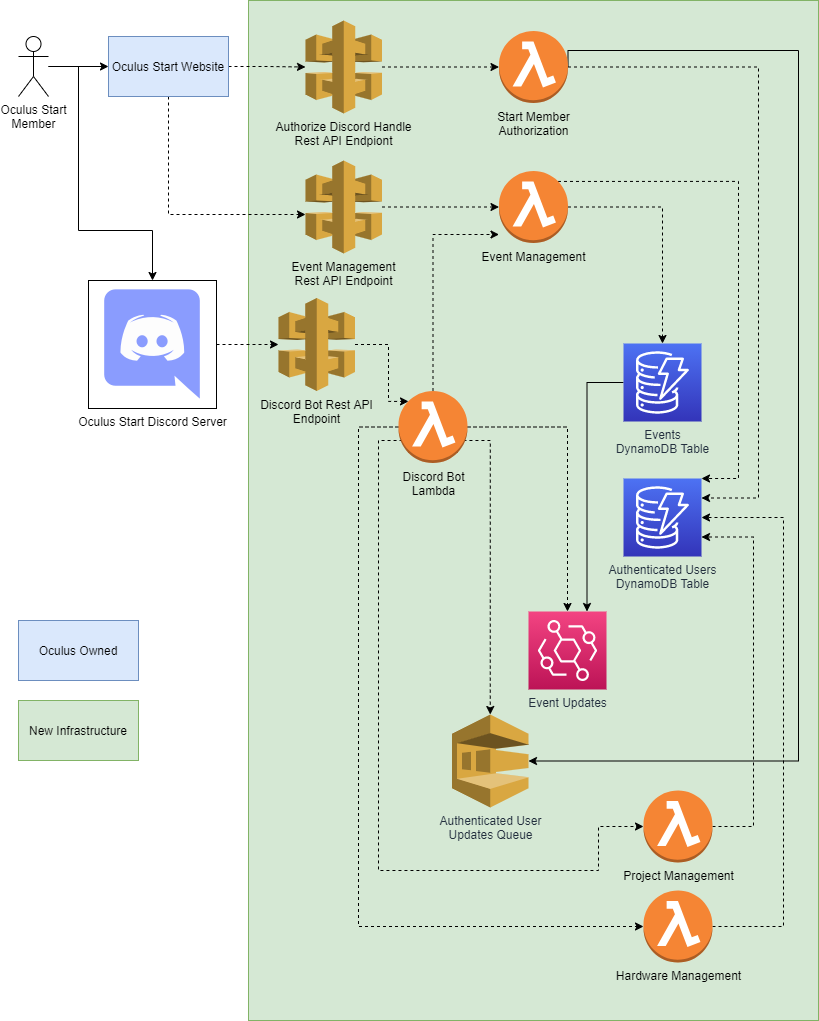
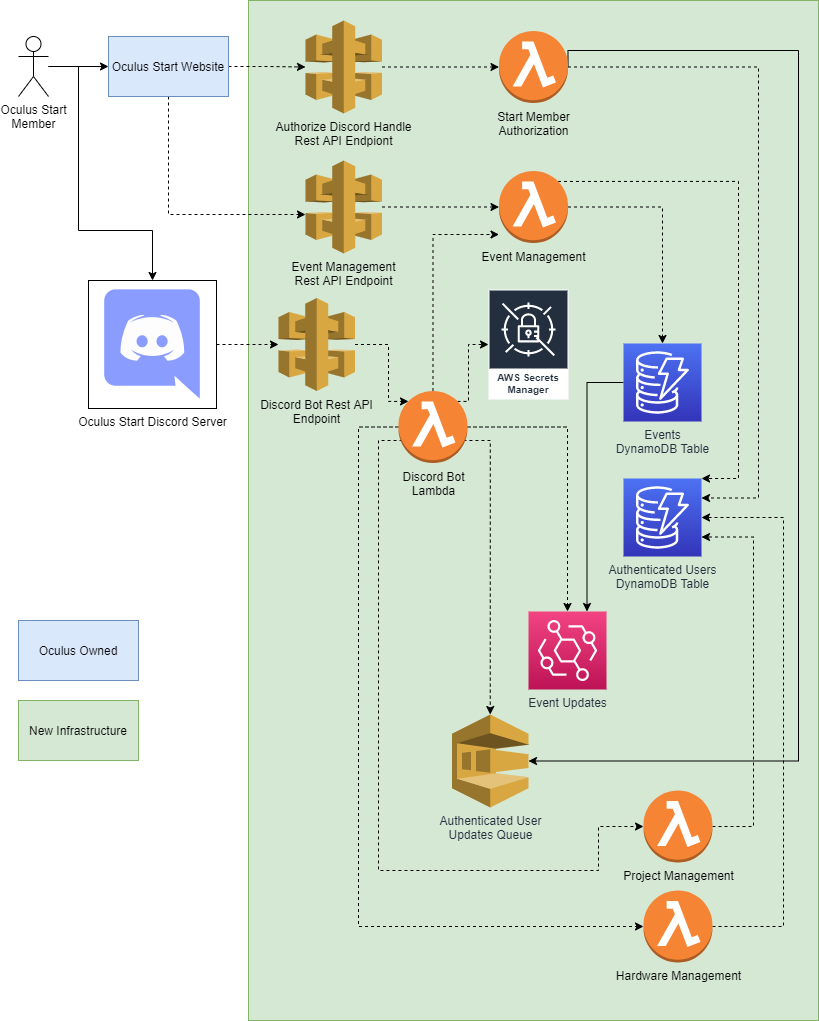
Setup Slash Command Files
[Problem]
We need to have support for setting up Slash Commands.

[Solution]
Added the basics of setting up the Slash Commands.

[Testing]
Manual testing for now, unit testing to come later.

Changed region(s): [[0.58, 0.2733, 0.7021, 0.3947]]

diff --git a/test/functions/DiscordBot.test.ts b/test/functions/DiscordBot.test.ts
@@ -1,7 +1,11 @@
 import { Context, Callback } from 'aws-lambda';
 
 const mockGetSecretValue = jest.fn().mockReturnValue({
-    SecretString: 'secretKey'
+    SecretString: JSON.stringify({
+                appId: 'appId',
+                publicKey: 'publicKey',
+                clientId: 'clientId'
+            })
 });
 
 const mockGetSecretValuePromise = {
@@ -40,7 +44,11 @@ describe('Test DiscordBot', () => {
 
     test('Test Verify - Success', async () => {
         mockGetSecretValue.mockReturnValueOnce({
-            SecretString: 'secretKey'
+            SecretString: JSON.stringify({
+                appId: 'appId',
+                publicKey: 'publicKey',
+                clientId: 'clientId'
+            })
         });
         mockVerify.mockReturnValueOnce(true);
         const result = await DiscordBot.verifyEvent({
@@ -56,7 +64,11 @@ describe('Test DiscordBot', () => {
 
     test('Test Verify - Fail', async () => {
         mockGetSecretValue.mockReturnValueOnce({
-            SecretString: 'secretKey'
+            SecretString: JSON.stringify({
+                appId: 'appId',
+                publicKey: 'publicKey',
+                clientId: 'clientId'
+            })
         });
         mockVerify.mockReturnValueOnce(false);
         const result = await DiscordBot.verifyEvent({
@@ -87,7 +99,11 @@ describe('Test DiscordBot', () => {
 
     test('Test Verify - nacl Exception', async () => {
         mockGetSecretValue.mockReturnValueOnce({
-            SecretString: 'secretKey'
+            SecretString: JSON.stringify({
+                appId: 'appId',
+                publicKey: 'publicKey',
+                clientId: 'clientId'
+            })
         });
         mockVerify.mockImplementationOnce(() => {
             throw new Error('Handle errors');
@@ -106,7 +122,11 @@ describe('Test DiscordBot', () => {
 
     test('Test Handler - Success', async () => {
         mockGetSecretValue.mockReturnValueOnce({
-            SecretString: 'secretKey'
+            SecretString: JSON.stringify({
+                appId: 'appId',
+                publicKey: 'publicKey',
+                clientId: 'clientId'
+            })
         });
         mockVerify.mockReturnValueOnce(true);
         const result = await DiscordBot.handler({
@@ -128,7 +148,11 @@ describe('Test DiscordBot', () => {
 
     test('Test Handler (No Event Type) - Success', async () => {
         mockGetSecretValue.mockReturnValueOnce({
-            SecretString: 'secretKey'
+            SecretString: JSON.stringify({
+                appId: 'appId',
+                publicKey: 'publicKey',
+                clientId: 'clientId'
+            })
         });
         mockVerify.mockReturnValueOnce(true);
         const result = await DiscordBot.handler(({
@@ -150,7 +174,11 @@ describe('Test DiscordBot', () => {
 
     test('Test Handler - Ping', async () => {
         mockGetSecretValue.mockReturnValueOnce({
-            SecretString: 'secretKey'
+            SecretString: JSON.stringify({
+                appId: 'appId',
+                publicKey: 'publicKey',
+                clientId: 'clientId'
+            })
         });
         mockVerify.mockReturnValueOnce(true);
         const result = await DiscordBot.handler({
@@ -168,7 +196,11 @@ describe('Test DiscordBot', () => {
 
     test('Test Handler - Error', async () => {
         mockGetSecretValue.mockReturnValueOnce({
-            SecretString: 'secretKey'
+            SecretString: JSON.stringify({
+                appId: 'appId',
+                publicKey: 'publicKey',
+                clientId: 'clientId'
+            })
         });
         mockVerify.mockReturnValueOnce(false);
         expect(async() => {

diff --git a/src/stacks/discord-bot-stack.ts b/src/stacks/discord-bot-stack.ts
@@ -1,25 +1,30 @@
 import {Runtime} from '@aws-cdk/aws-lambda';
 import {LambdaIntegration, RequestValidator, RestApi} from '@aws-cdk/aws-apigateway';
 import {NodejsFunction} from '@aws-cdk/aws-lambda-nodejs';
-import * as cdk from '@aws-cdk/core';
-import * as path from 'path';
+import {CfnOutput, Construct, Stack, StackProps} from '@aws-cdk/core';
 import {Secret} from '@aws-cdk/aws-secretsmanager';
+import * as path from 'path';
 
 /**
  * A stack for creating the Discord bot itself. Creates an API Gateway endpoint
  * that Discord can reach for events.
  */
-export class DiscordBotStack extends cdk.Stack {
+export class DiscordBotStack extends Stack {
+  public readonly discordAPISecrets: Secret;
+
   /**
    * The constructor for building the stack.
-   * @param {cdk.Construct} scope The Construct scope to create the stack in.
+   * @param {Construct} scope The Construct scope to create the stack in.
    * @param {string} id The ID of the stack to use.
-   * @param {cdk.StackProps} props The properties to configure the stack.
+   * @param {StackProps} props The properties to configure the stack.
    */
-  constructor(scope: cdk.Construct, id: string, props?: cdk.StackProps) {
+  constructor(scope: Construct, id: string, props?: StackProps) {
     super(scope, id, props);
 
-    const discordKeySecret = new Secret(this, 'oculus-start-discord-api-key');
+    this.discordAPISecrets = new Secret(this, 'oculus-start-discord-api-key', {
+      secretName: `oculusStartDiscordSecrets${scope.node.addr}`,
+    });
+    new CfnOutput(this, 'discordSecretsName', {value: this.discordAPISecrets.secretName});
 
     // Create the Lambdas next.
     const discordBotLambda = new NodejsFunction(this, 'discord-bot-lambda', {
@@ -27,11 +32,11 @@ export class DiscordBotStack extends cdk.Stack {
       entry: path.join(__dirname, '../functions/DiscordBot.ts'),
       handler: 'handler',
       environment: {
-        DISCORD_BOT_API_KEY_NAME: discordKeySecret.secretName,
+        DISCORD_BOT_API_KEY_NAME: this.discordAPISecrets.secretName,
       },
     });
 
-    discordKeySecret.grantRead(discordBotLambda);
+    this.discordAPISecrets.grantRead(discordBotLambda);
 
     // Create our API Gateway
     const discordBotAPI = new RestApi(this, 'discord-bot-api', {

diff --git a/src/stacks/start-api-stack.ts b/src/stacks/start-api-stack.ts
@@ -2,23 +2,23 @@ import {AttributeType, Table} from '@aws-cdk/aws-dynamodb';
 import {Runtime} from '@aws-cdk/aws-lambda';
 import {LambdaIntegration, RequestValidator, RestApi} from '@aws-cdk/aws-apigateway';
 import {NodejsFunction} from '@aws-cdk/aws-lambda-nodejs';
-import * as cdk from '@aws-cdk/core';
-import * as path from 'path';
+import {Construct, Stack, StackProps} from '@aws-cdk/core';
 import {Queue} from '@aws-cdk/aws-sqs';
+import * as path from 'path';
 
 /**
  * Creates the APIs and code behind them for managing various
  * things in the backend of the Oculus Start bot (user authorization, event
  * management, etc.)
  */
-export class StartAPIStack extends cdk.Stack {
+export class StartAPIStack extends Stack {
   /**
    * The constructor for building the stack.
-   * @param {cdk.Construct} scope The Construct scope to create the stack in.
+   * @param {Construct} scope The Construct scope to create the stack in.
    * @param {string} id The ID of the stack to use.
-   * @param {cdk.StackProps} props The properties to configure the stack.
+   * @param {StackProps} props The properties to configure the stack.
    */
-  constructor(scope: cdk.Construct, id: string, props?: cdk.StackProps) {
+  constructor(scope: Construct, id: string, props?: StackProps) {
     super(scope, id, props);
 
     // Create our DynamoDB tables first.

diff --git a/src/configure-discord-server.ts b/src/configure-discord-server.ts
@@ -1,0 +1,30 @@
+import { AWSError, SecretsManager } from "aws-sdk";
+import { GetSecretValueResponse } from "aws-sdk/clients/secretsmanager";
+import DiscordInteractions from "slash-commands";
+import { DiscordSecrets } from "./types";
+import * as Stacks from './configs/outputs.json';
+
+const secretsManager = new SecretsManager({
+  region: 'us-west-2'
+});
+
+secretsManager.getSecretValue({
+  SecretId: Stacks.DiscordBotStack.discordSecretsName
+}, (err?: AWSError, data?: GetSecretValueResponse) => {
+  if (data?.SecretString) {
+    try {
+      const discordSecrets: DiscordSecrets = JSON.parse(data.SecretString);
+      new DiscordInteractions({
+        applicationId: discordSecrets.appId,
+        authToken: discordSecrets.clientId,
+        publicKey: discordSecrets.publicKey,
+      });
+
+      console.log('Ready to create interactions!');
+      // TODO: Handle here
+    } catch(exception) {
+      console.log(`There was an error parsing the secret JSON: ${exception}`);
+      console.log('Please make sure that you have setup your secrets in the AWS console!');
+    }
+  }
+});

diff --git a/src/functions/DiscordBot.ts b/src/functions/DiscordBot.ts
@@ -2,6 +2,7 @@ import {Context, Callback} from 'aws-lambda';
 import {SecretsManager} from 'aws-sdk';
 import {discordBotAPIKeyName} from './constants/EnvironmentProps';
 import * as nacl from 'tweetnacl';
+import {DiscordSecrets} from '../types';
 
 export interface DiscordEventRequest {
     timestamp: string;
@@ -69,10 +70,11 @@ export async function verifyEvent(event: DiscordEventRequest): Promise<boolean> 
 
   try {
     if (discordAPIKey.SecretString) {
+      const discordSecrets: DiscordSecrets = JSON.parse(discordAPIKey.SecretString);
       const isVerified = nacl.sign.detached.verify(
           Buffer.from(event.timestamp + JSON.stringify(event.jsonBody)),
           Buffer.from(event.signature, 'hex'),
-          Buffer.from(discordAPIKey.SecretString, 'hex'),
+          Buffer.from(discordSecrets.publicKey, 'hex'),
       );
       return isVerified;
     }

diff --git a/src/app.ts b/src/app.ts
@@ -3,7 +3,10 @@ import 'source-map-support/register';
 import * as cdk from '@aws-cdk/core';
 import { DiscordBotStack } from './stacks/discord-bot-stack';
 import { StartAPIStack } from './stacks/start-api-stack';
+import { writeFile } from 'fs';
+import { Token, Tokenization } from '@aws-cdk/core';
 
 const app = new cdk.App();
 new StartAPIStack(app, 'StartAPIStack');
 new DiscordBotStack(app, 'DiscordBotStack');
+

diff --git a/jest.config.js b/jest.config.js
@@ -8,8 +8,9 @@ module.exports = {
     "!<rootDir>/node_modules/"
   ],
   coveragePathIgnorePatterns: [
-    'src/functions/constants',
-    'src/app.ts'
+    'src/app.ts',
+    'src/configs',
+    'src/functions/constants'
   ],
   coverageThreshold: {
     global: {

diff --git a/src/types.ts b/src/types.ts
@@ -1,0 +1,6 @@
+export interface DiscordSecrets {
+  appId: string;
+  publicKey: string;
+  clientId: string;
+}
+

diff --git a/README.md b/README.md
@@ -5,6 +5,27 @@
 
 This project is for setting up the Oculus Start Discord Bot! Using it, you can develop for, deploy locally, and maintain the Oculus Start Bot. It is built with CDK (entirely in TypeScript). It is currently maintained and deployed by **RGB Schemes** in order to help the Oculus Start program continue to grow, though we are attempting to work with Oculus to get this officially supported by them as well. You can learn more about the program and its benefits [here](https://developer.oculus.com/oculus-start/). We highly recommend other developers join!
 
+# Setup
+When deploying, the order in which you run everything is currently important. There are 2 stages to deploying:
+
+1. Deploying the actual infrastructure
+2. Configuring the Discord server to use the infrastructure.
+
+To deploy the infrastructure, you will want to do the following:
+
+1. Run `npm run build`  - Compiles the TypeScript into JavaScript
+2. Run `npm run synth`  - Synthesizes the CDK templates into CloudFormation templates.
+3. Run `npm run deploy` - Deploys all of the infrastructure code to AWS and then outputs the necessary results to a configuration file in the dist folder.
+4. Login to your AWS Account and navigate to the Secrets Manager. Here, you'll want to update your Discord secrets as a JSON configuration that looks something like this:
+```json
+{
+  "appId": "XXXXX",
+  "publicKey": "XXXXX",
+  "clientId": "XXXXX"
+}
+```
+5. Run `npm run config`  - Sets up the Discord server's Slash Commands and other configuration properties. This uses your secrets configured above so that you can securely deploy everything.
+
 # Architecture Overview
 This is the architecture for how this project is laid out server-side. The tools used to create these diagrams are:
 - [Architecture Diagrams](https://app.diagrams.net)
@@ -53,7 +74,7 @@ Users can interact with the bot in one of two primary ways: Via Discord with var
 ![Registering for an event on Discord](diagrams/discord-event-registration.png?raw=true)
 
 # Contributing
-When contributing, you will want to fork this project, and make your changes in your fork of this, after which you can submit a pull request to merge your changes back into the project. Please ensure that the unit tests still pass (and that you've added any additional ones to maintain good code coverage), and ensure that you have verified you are following the lint rules that have been setup. For commands to help with each of these things, see the next section.
+When contributing, you will want to fork this project, and make your changes in your fork of this, after which you can submit a pull request to merge your changes back into the project. Please ensure that the unit tests still pass (and that you've added any additional ones to maintain good code coverage), and ensure that you have verified you are following the lint rules that have been setup.
 
 # Useful commands
 
@@ -62,6 +83,7 @@ When contributing, you will want to fork this project, and make your changes in 
  * `npm run test`       perform the jest unit tests
  * `npm run lint`       perform a lint check across the code
  * `npm run fix-lint`   fix any lint issues automatically where possible
- * `cdk deploy`         deploy this stack to your default AWS account/region
+ * `npm run synth`      emits the synthesized CloudFormation template
+ * `npm run deploy`     deploy this stack to your default AWS account/region and generate outputs for creating slash commands
+ * `npm run config`      configures the setup for a Discord server (run `npm run deploy` and configure your Secrets Manager first)
  * `cdk diff`           compare deployed stack with current state
- * `cdk synth`          emits the synthesized CloudFormation template
